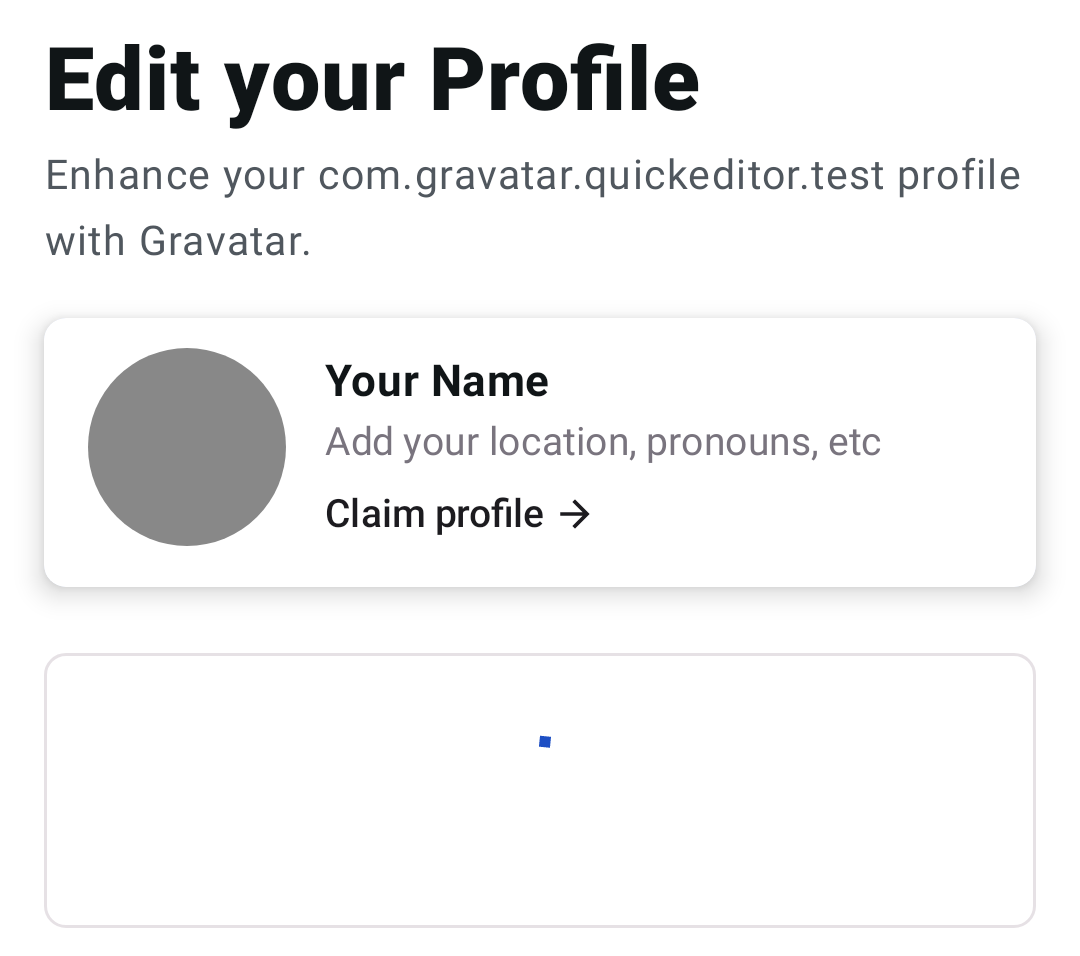
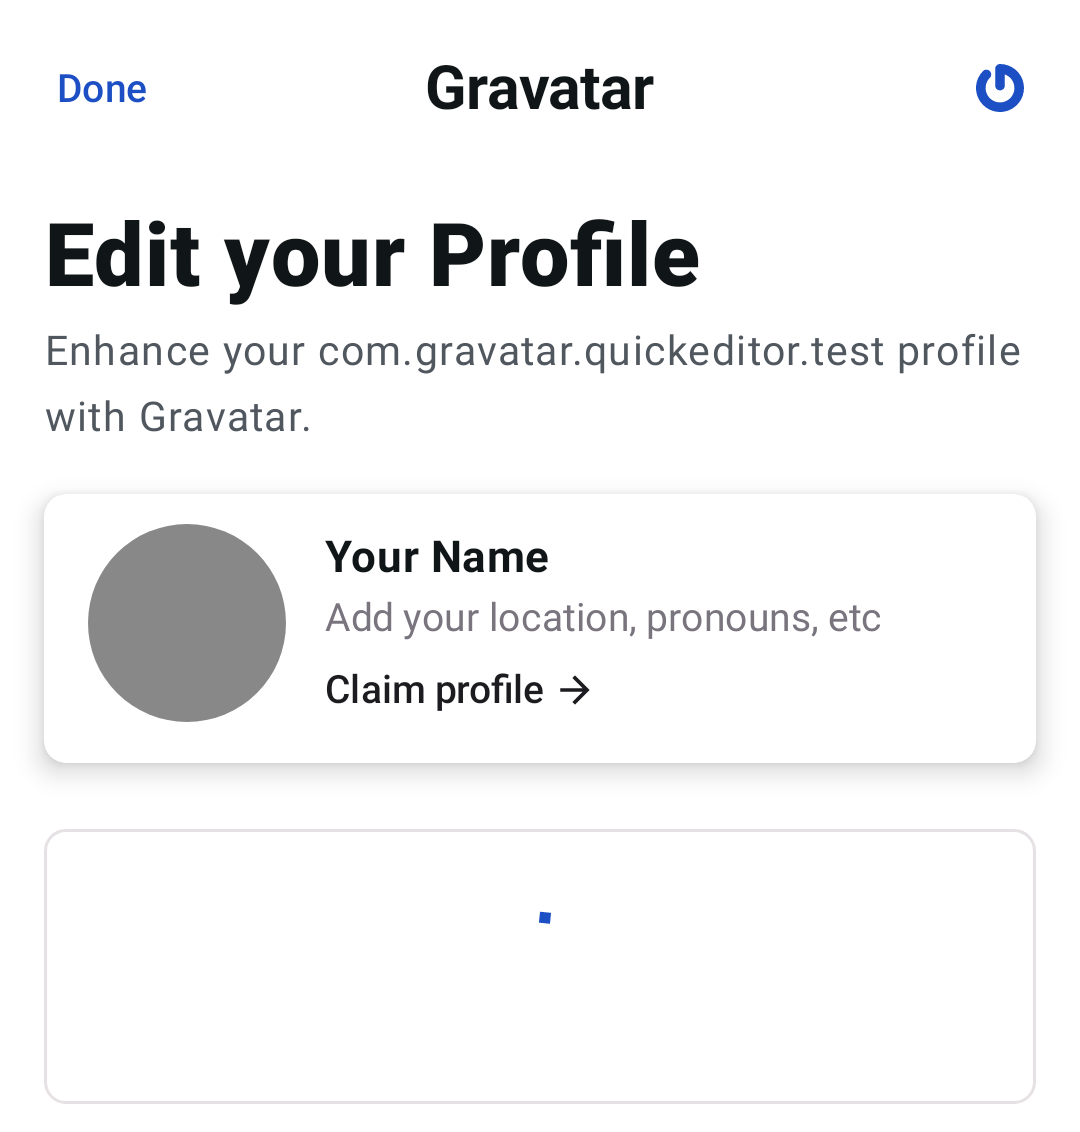
Add OAuthPage screenshot tests

diff --git a/gravatar-quickeditor/src/main/java/com/gravatar/quickeditor/ui/oauth/OAuthPage.kt b/gravatar-quickeditor/src/main/java/com/gravatar/quickeditor/ui/oauth/OAuthPage.kt
@@ -103,15 +103,14 @@ internal fun OAuthPage(
         }
     }
 
-    QETopBarWithContent(onLeftButtonClick = onDoneClicked) {
-        OauthPage(
-            uiState = uiState,
-            email = email,
-            onStartOAuthClicked = viewModel::startOAuth,
-            onEmailAssociationCheckClicked = remember { { viewModel.checkAuthorizedUserEmail(email, it) } },
-            modifier = modifier,
-        )
-    }
+    OauthPage(
+        uiState = uiState,
+        email = email,
+        onStartOAuthClicked = viewModel::startOAuth,
+        onDoneClicked = onDoneClicked,
+        onEmailAssociationCheckClicked = remember { { viewModel.checkAuthorizedUserEmail(email, it) } },
+        modifier = modifier,
+    )
 }
 
 @Composable
@@ -119,83 +118,86 @@ internal fun OauthPage(
     uiState: OAuthUiState,
     email: Email,
     onStartOAuthClicked: () -> Unit,
+    onDoneClicked: () -> Unit,
     modifier: Modifier = Modifier,
     onEmailAssociationCheckClicked: (String) -> Unit = {},
 ) {
     val context = LocalContext.current
     GravatarTheme {
-        Surface {
-            Column(
-                modifier = modifier
-                    .padding(horizontal = 16.dp)
-                    .fillMaxWidth(),
-            ) {
-                Text(
-                    text = stringResource(R.string.gravatar_qe_oauth_page_title),
-                    style = MaterialTheme.typography.headlineMedium.copy(
-                        fontWeight = FontWeight.Black,
-                        fontSize = 32.sp,
-                        letterSpacing = 0.4.sp,
-                    ),
-                    modifier = Modifier.padding(top = 10.dp),
-                )
-                QESectionMessage(
-                    message = stringResource(R.string.gravatar_qe_oauth_page_message, context.appName),
-                    modifier = Modifier.padding(top = 4.dp),
-                )
-                uiState.profile?.let {
-                    ProfileCard(
-                        profile = it,
-                        modifier = Modifier.padding(top = 16.dp),
+        QETopBarWithContent(onLeftButtonClick = onDoneClicked) {
+            Surface {
+                Column(
+                    modifier = modifier
+                        .padding(horizontal = 16.dp)
+                        .fillMaxWidth(),
+                ) {
+                    Text(
+                        text = stringResource(R.string.gravatar_qe_oauth_page_title),
+                        style = MaterialTheme.typography.headlineMedium.copy(
+                            fontWeight = FontWeight.Black,
+                            fontSize = 32.sp,
+                            letterSpacing = 0.4.sp,
+                        ),
+                        modifier = Modifier.padding(top = 10.dp),
                     )
-                }
-                val sectionModifier = Modifier.padding(top = 24.dp, bottom = 10.dp)
-                when (val status = uiState.status) {
-                    OAuthStatus.Authorizing -> Box(
-                        modifier = sectionModifier
-                            .fillMaxWidth()
-                            .height(100.dp)
-                            .border(
-                                width = 1.dp,
-                                color = MaterialTheme.colorScheme.surfaceContainerHighest,
-                                shape = RoundedCornerShape(8.dp),
-                            ),
-                    ) {
-                        CircularProgressIndicator(modifier = Modifier.align(Center))
-                    }
-
-                    OAuthStatus.LoginRequired -> {
-                        CtaSection(
-                            message = stringResource(R.string.gravatar_qe_login_required_message_v2),
-                            buttonText = stringResource(id = R.string.gravatar_qe_login_required_cta),
-                            onButtonClick = onStartOAuthClicked,
-                            modifier = sectionModifier,
+                    QESectionMessage(
+                        message = stringResource(R.string.gravatar_qe_oauth_page_message, context.appName),
+                        modifier = Modifier.padding(top = 4.dp),
+                    )
+                    uiState.profile?.let {
+                        ProfileCard(
+                            profile = it,
+                            modifier = Modifier.padding(top = 16.dp),
                         )
                     }
+                    val sectionModifier = Modifier.padding(top = 24.dp, bottom = 10.dp)
+                    when (val status = uiState.status) {
+                        OAuthStatus.Authorizing -> Box(
+                            modifier = sectionModifier
+                                .fillMaxWidth()
+                                .height(100.dp)
+                                .border(
+                                    width = 1.dp,
+                                    color = MaterialTheme.colorScheme.surfaceContainerHighest,
+                                    shape = RoundedCornerShape(8.dp),
+                                ),
+                        ) {
+                            CircularProgressIndicator(modifier = Modifier.align(Center))
+                        }
 
-                    OAuthStatus.WrongEmailAuthorized -> {
-                        CtaSection(
+                        OAuthStatus.LoginRequired -> {
+                            CtaSection(
+                                message = stringResource(R.string.gravatar_qe_login_required_message_v2),
+                                buttonText = stringResource(id = R.string.gravatar_qe_login_required_cta),
+                                onButtonClick = onStartOAuthClicked,
+                                modifier = sectionModifier,
+                            )
+                        }
+
+                        OAuthStatus.WrongEmailAuthorized -> {
+                            CtaSection(
+                                title = stringResource(R.string.gravatar_qe_avatar_picker_server_error_title),
+                                message = stringResource(
+                                    R.string.gravatar_qe_oauth_wrong_email_authenticated_error_message,
+                                    email.toString(),
+                                ),
+                                buttonText = stringResource(id = R.string.gravatar_qe_avatar_picker_session_error_cta),
+                                onButtonClick = onStartOAuthClicked,
+                                modifier = sectionModifier,
+                            )
+                        }
+
+                        is OAuthStatus.EmailAssociatedCheckError -> CtaSection(
                             title = stringResource(R.string.gravatar_qe_avatar_picker_server_error_title),
                             message = stringResource(
-                                R.string.gravatar_qe_oauth_wrong_email_authenticated_error_message,
+                                R.string.gravatar_qe_oauth_email_associated_error_message,
                                 email.toString(),
                             ),
-                            buttonText = stringResource(id = R.string.gravatar_qe_avatar_picker_session_error_cta),
-                            onButtonClick = onStartOAuthClicked,
+                            buttonText = stringResource(id = R.string.gravatar_qe_avatar_picker_error_retry_cta),
+                            onButtonClick = { onEmailAssociationCheckClicked(status.token) },
                             modifier = sectionModifier,
                         )
                     }
-
-                    is OAuthStatus.EmailAssociatedCheckError -> CtaSection(
-                        title = stringResource(R.string.gravatar_qe_avatar_picker_server_error_title),
-                        message = stringResource(
-                            R.string.gravatar_qe_oauth_email_associated_error_message,
-                            email.toString(),
-                        ),
-                        buttonText = stringResource(id = R.string.gravatar_qe_avatar_picker_error_retry_cta),
-                        onButtonClick = { onEmailAssociationCheckClicked(status.token) },
-                        modifier = sectionModifier,
-                    )
                 }
             }
         }
@@ -225,6 +227,7 @@ private fun OAuthPagePreview() {
             uiState = OAuthUiState(),
             email = Email("email"),
             onStartOAuthClicked = { },
+            onDoneClicked = { },
         )
     }
 }
@@ -239,6 +242,7 @@ private fun OAuthPageLoadingPreview() {
             ),
             email = Email("email"),
             onStartOAuthClicked = { },
+            onDoneClicked = { },
         )
     }
 }

diff --git a/gravatar-quickeditor/src/test/java/com/gravatar/quickeditor/ui/oauth/OAuthPageTest.kt b/gravatar-quickeditor/src/test/java/com/gravatar/quickeditor/ui/oauth/OAuthPageTest.kt
@@ -16,6 +16,7 @@ class OAuthPageTest : RoborazziTest() {
             ),
             email = Email("email"),
             onStartOAuthClicked = {},
+            onDoneClicked = {},
         )
     }
 
@@ -29,6 +30,7 @@ class OAuthPageTest : RoborazziTest() {
                 ),
                 email = Email("email"),
                 onStartOAuthClicked = {},
+                onDoneClicked = {},
             )
         }
     }
@@ -42,6 +44,7 @@ class OAuthPageTest : RoborazziTest() {
             ),
             email = Email("email"),
             onStartOAuthClicked = {},
+            onDoneClicked = {},
         )
     }
 }